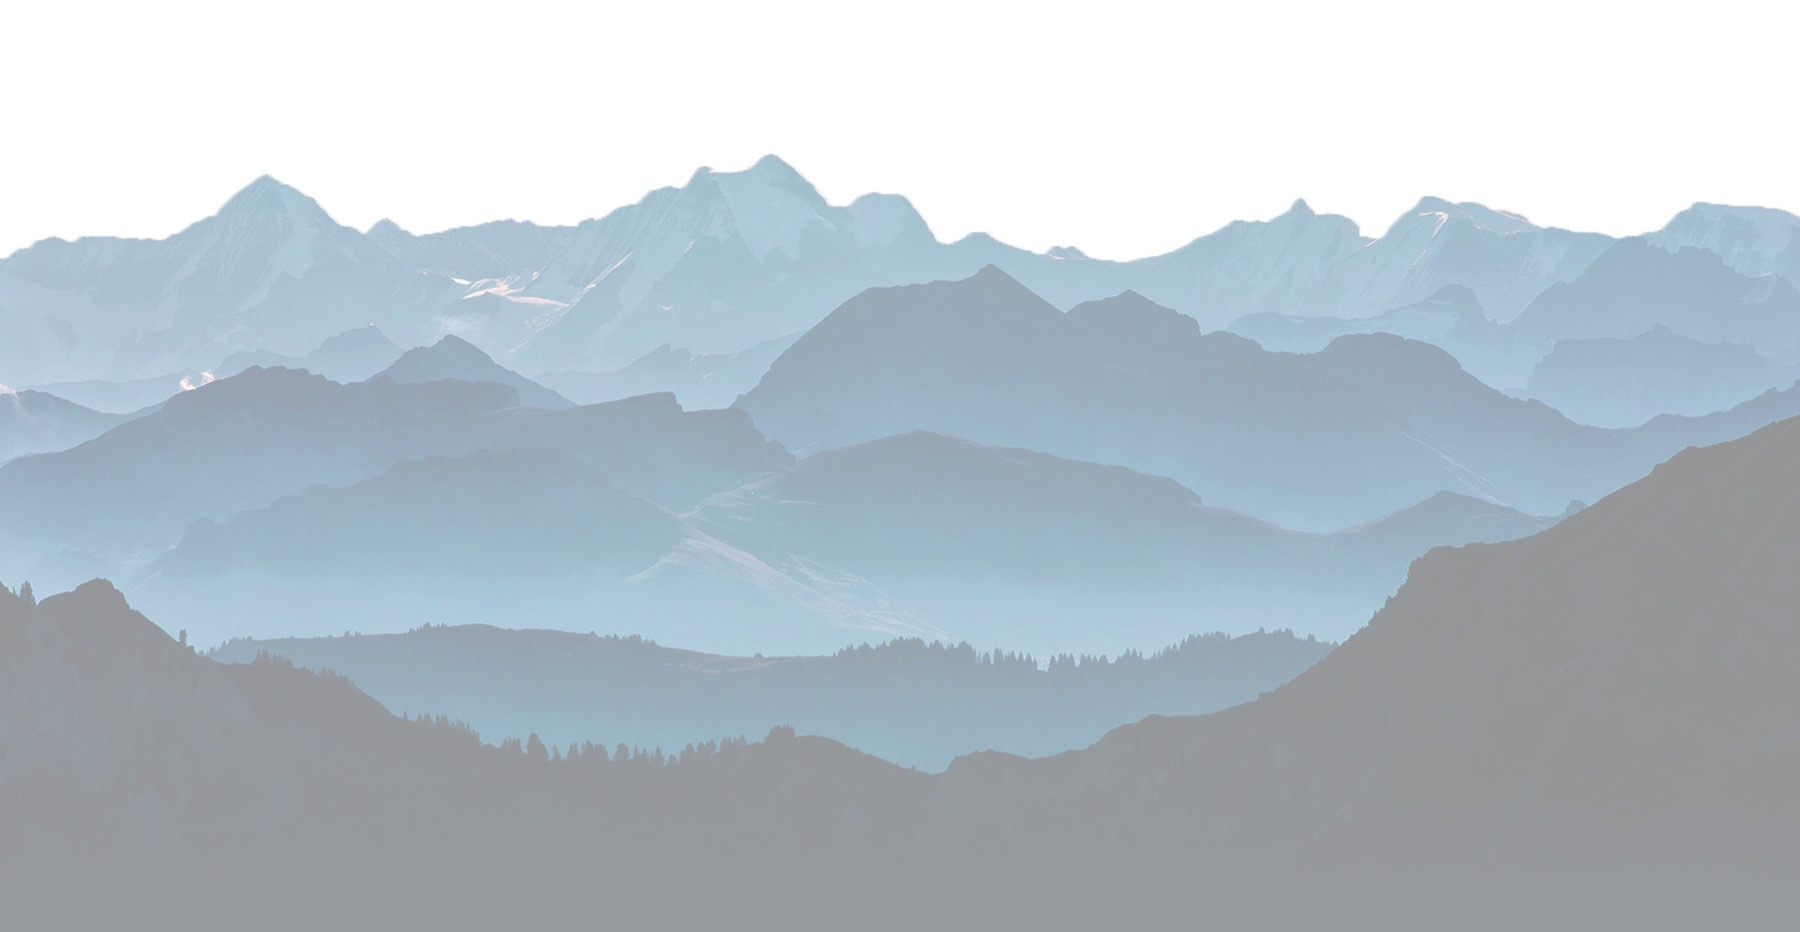
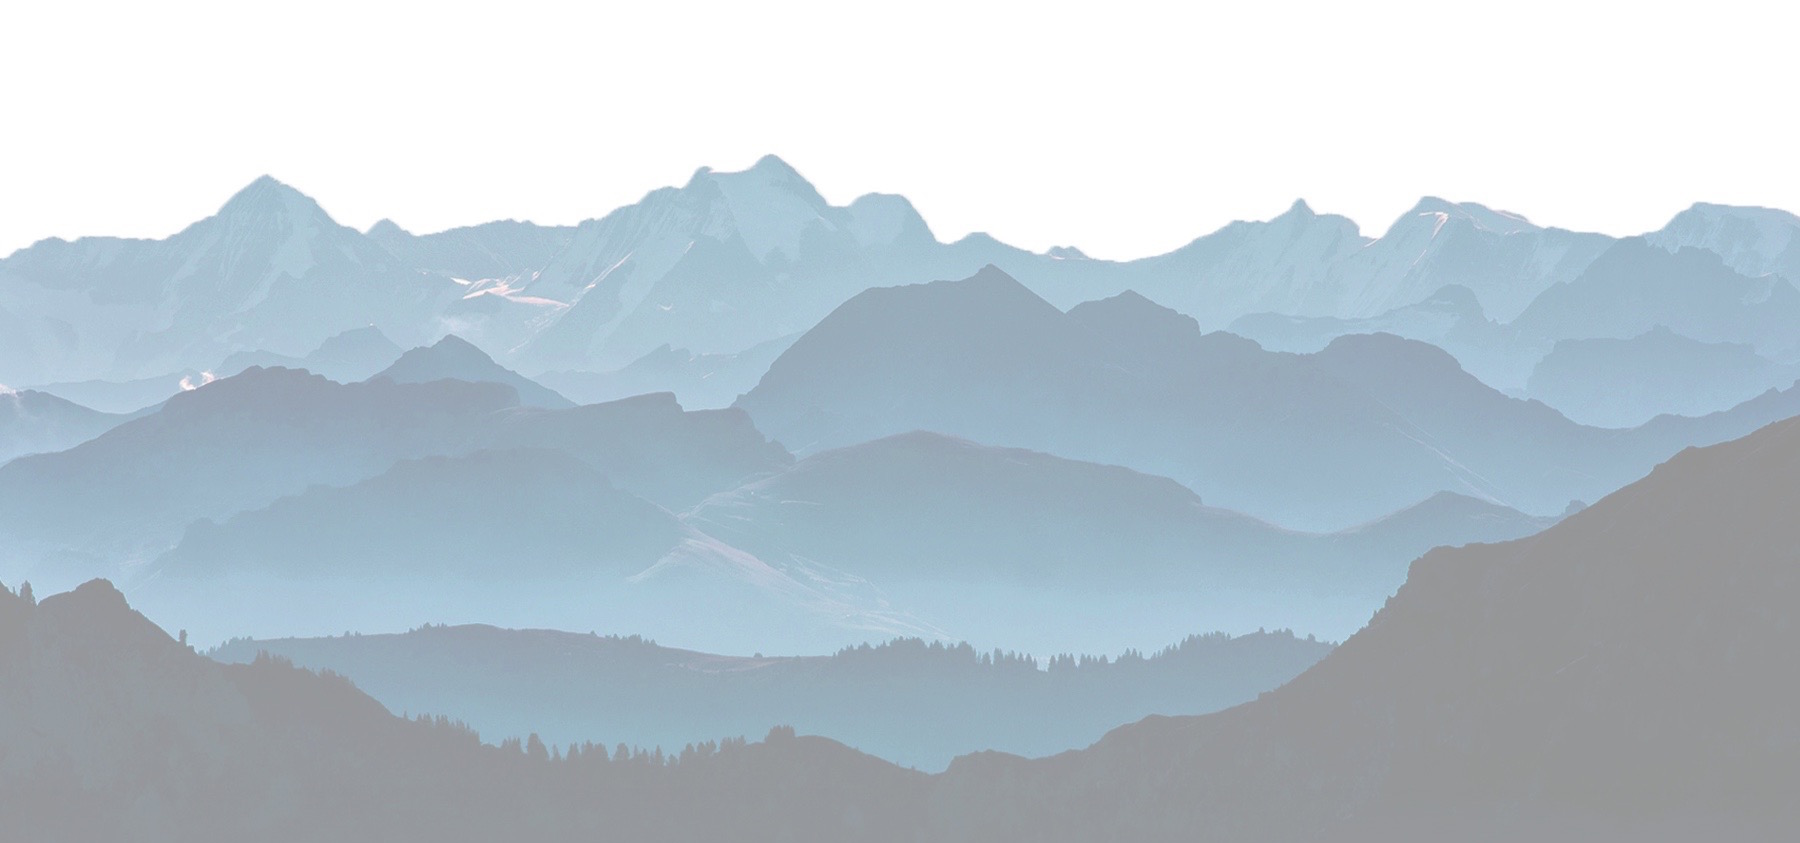
separated js in beta and created wood fade section with objects

Changed region(s): [[0.0, 0.4318, 1.0, 0.9253], [0.0, 0.1542, 1.0, 0.4935], [0.4044, 0.586, 0.4356, 0.6168]]

diff --git a/beta.html b/beta.html
@@ -51,10 +51,19 @@
     </div>
   </div>
   <div class="section" id="schedule">
-      <div class="wrapper">
-          <h2>The Weekend Plan</h2>
-          <p>Schedule Coming Soon</p>
-      </div>
+    <img src="img/notebook.png" id="desk_notebook" class="desk_objects">
+    <img src="img/peach.png" id="desk_peach" class="desk_objects">
+    <div class="wrapper">
+        <h2>The Weekend Plan</h2>
+        <p>Schedule Coming Soon</p>
+        <p>Lorem ipsum dolor sit amet, consectetur adipiscing elit,</p>
+        <p>sed do eiusmod tempor incididunt ut labore et dolore magna aliqua.</p>
+        <p>Ut enim ad minim veniam,</p>
+        <p>quis nostrud exercitation ullamco laboris nisi ut aliquip ex ea commodo consequat.</p>
+        <p>Duis aute irure dolor in reprehenderit in voluptate velit esse cillum dolore eu fugiat nulla pariatur.</p>
+        <p>Excepteur sint occaecat cupidatat non proident,</p>
+        <p>sunt in culpa qui officia deserunt mollit anim id est laborum.</p>
+    </div>
   </div>
   <div class="section" id="divider"></div>
   <div class="section" id="sponsor">
@@ -98,61 +107,7 @@
   <script src="js/jquery-sakura.min.js"></script>
   <script src="js/itemslide.min.js"></script>
   <script src="js/jquery.parallax.min.js"></script>
-  <script>
-    $(window).load(function () {
-      var isMobile = window.matchMedia("only screen and (max-width: 760px)");
-      if (! isMobile.matches) {
-        $('.res').sakura();
-      }
-    });
-    var carousel;
-    $(document).ready(function () {
-      // $('#mountainBack').parallax();
-      carousel = $("ul#faq-blocks");
-      carousel.itemslide();
-      carousel.gotoSlide(2);
-    });
-
-    /*********************************************************************
-    *  #### Twitter Post Fetcher v16.0.2 ####
-    *  Coded by Jason Mayes 2015. A present to all the developers out there.
-    *  www.jasonmayes.com
-    *  Please keep this disclaimer with my code if you use it. Thanks. :-)
-    *  Got feedback or questions, ask here:
-    *  http://www.jasonmayes.com/projects/twitterApi/
-    *  Github: https://github.com/jasonmayes/Twitter-Post-Fetcher
-    *  Updates will be posted to this site.
-    *********************************************************************/
-    (function(E,q){"function"===typeof define&&define.amd?define([],q):"object"===typeof exports?module.exports=q():q()})(this,function(){function E(a){if(null===t){for(var f=a.length,b=0,k=document.getElementById(F),g="<ul>";b<f;)g+="<li>"+a[b]+"</li>",b++;k.innerHTML=g+"</ul>"}else t(a)}function q(a){return a.replace(/<b[^>]*>(.*?)<\/b>/gi,function(a,b){return b}).replace(/class="(?!(tco-hidden|tco-display|tco-ellipsis))+.*?"|data-query-source=".*?"|dir=".*?"|rel=".*?"/gi,"")}function G(a){a=a.getElementsByTagName("a");
-    for(var f=a.length-1;0<=f;f--)a[f].setAttribute("target","_blank")}function l(a,f){for(var b=[],k=new RegExp("(^| )"+f+"( |$)"),g=a.getElementsByTagName("*"),h=0,d=g.length;h<d;h++)k.test(g[h].className)&&b.push(g[h]);return b}function y(a){if(void 0!==a&&0<=a.innerHTML.indexOf("data-srcset"))return a=a.innerHTML.match(/data-srcset="([A-z0-9%_\.-]+)/i)[0],decodeURIComponent(a).split('"')[1]}var F="",f=20,H=!0,x=[],z=!1,A=!0,n=!0,B=null,C=!0,D=!0,t=null,I=!0,u=!1,v=!0,J=!0,K=!1,m=null,L={fetch:function(a){void 0===
-    a.maxTweets&&(a.maxTweets=20);void 0===a.enableLinks&&(a.enableLinks=!0);void 0===a.showUser&&(a.showUser=!0);void 0===a.showTime&&(a.showTime=!0);void 0===a.dateFunction&&(a.dateFunction="default");void 0===a.showRetweet&&(a.showRetweet=!0);void 0===a.customCallback&&(a.customCallback=null);void 0===a.showInteraction&&(a.showInteraction=!0);void 0===a.showImages&&(a.showImages=!1);void 0===a.linksInNewWindow&&(a.linksInNewWindow=!0);void 0===a.showPermalinks&&(a.showPermalinks=!0);void 0===a.dataOnly&&
-    (a.dataOnly=!1);if(z)x.push(a);else{z=!0;F=a.domId;f=a.maxTweets;H=a.enableLinks;n=a.showUser;A=a.showTime;D=a.showRetweet;B=a.dateFunction;t=a.customCallback;I=a.showInteraction;u=a.showImages;v=a.linksInNewWindow;J=a.showPermalinks;K=a.dataOnly;var l=document.getElementsByTagName("head")[0];null!==m&&l.removeChild(m);m=document.createElement("script");m.type="text/javascript";m.src=void 0!==a.list?"https://syndication.twitter.com/timeline/list?callback=twitterFetcher.callback&dnt=false&list_slug="+
-    a.list.listSlug+"&screen_name="+a.list.screenName+"&suppress_response_codes=true&lang="+(a.lang||"en")+"&rnd="+Math.random():void 0!==a.profile?"https://syndication.twitter.com/timeline/profile?callback=twitterFetcher.callback&dnt=false&screen_name="+a.profile.screenName+"&suppress_response_codes=true&lang="+(a.lang||"en")+"&rnd="+Math.random():void 0!==a.likes?"https://syndication.twitter.com/timeline/likes?callback=twitterFetcher.callback&dnt=false&screen_name="+a.likes.screenName+"&suppress_response_codes=true&lang="+
-    (a.lang||"en")+"&rnd="+Math.random():"https://cdn.syndication.twimg.com/widgets/timelines/"+a.id+"?&lang="+(a.lang||"en")+"&callback=twitterFetcher.callback&suppress_response_codes=true&rnd="+Math.random();l.appendChild(m)}},callback:function(a){function m(a){var b=a.getElementsByTagName("img")[0];b.src=b.getAttribute("data-src-2x");return a}a.body=a.body.replace(/(<img[^c]*class="Emoji[^>]*>)|(<img[^c]*class="u-block[^>]*>)/g,"");u||(a.body=a.body.replace(/(<img[^c]*class="NaturalImage-image[^>]*>|(<img[^c]*class="CroppedImage-image[^>]*>))/g,
-    ""));n||(a.body=a.body.replace(/(<img[^c]*class="Avatar"[^>]*>)/g,""));var b=document.createElement("div");b.innerHTML=a.body;"undefined"===typeof b.getElementsByClassName&&(C=!1);a=[];var k=[],g=[],h=[],d=[],r=[],p=[],e=0;if(C)for(b=b.getElementsByClassName("timeline-Tweet");e<b.length;){0<b[e].getElementsByClassName("timeline-Tweet-retweetCredit").length?d.push(!0):d.push(!1);if(!d[e]||d[e]&&D)a.push(b[e].getElementsByClassName("timeline-Tweet-text")[0]),r.push(b[e].getAttribute("data-tweet-id")),
-    n&&k.push(m(b[e].getElementsByClassName("timeline-Tweet-author")[0])),g.push(b[e].getElementsByClassName("dt-updated")[0]),p.push(b[e].getElementsByClassName("timeline-Tweet-timestamp")[0]),void 0!==b[e].getElementsByClassName("timeline-Tweet-media")[0]?h.push(b[e].getElementsByClassName("timeline-Tweet-media")[0]):h.push(void 0);e++}else for(b=l(b,"timeline-Tweet");e<b.length;){0<l(b[e],"timeline-Tweet-retweetCredit").length?d.push(!0):d.push(!1);if(!d[e]||d[e]&&D)a.push(l(b[e],"timeline-Tweet-text")[0]),
-    r.push(b[e].getAttribute("data-tweet-id")),n&&k.push(m(l(b[e],"timeline-Tweet-author")[0])),g.push(l(b[e],"dt-updated")[0]),p.push(l(b[e],"timeline-Tweet-timestamp")[0]),void 0!==l(b[e],"timeline-Tweet-media")[0]?h.push(l(b[e],"timeline-Tweet-media")[0]):h.push(void 0);e++}a.length>f&&(a.splice(f,a.length-f),k.splice(f,k.length-f),g.splice(f,g.length-f),d.splice(f,d.length-f),h.splice(f,h.length-f),p.splice(f,p.length-f));var b=[],e=a.length,c=0;if(K)for(;c<e;)b.push({tweet:a[c].innerHTML,author:k[c].innerHTML,
-    time:g[c].textContent,image:y(h[c]),rt:d[c],tid:r[c],permalinkURL:void 0===p[c]?"":p[c].href}),c++;else for(;c<e;){if("string"!==typeof B){var d=g[c].getAttribute("datetime"),w=new Date(g[c].getAttribute("datetime").replace(/-/g,"/").replace("T"," ").split("+")[0]),d=B(w,d);g[c].setAttribute("aria-label",d);if(a[c].textContent)if(C)g[c].textContent=d;else{var w=document.createElement("p"),t=document.createTextNode(d);w.appendChild(t);w.setAttribute("aria-label",d);g[c]=w}else g[c].textContent=d}d=
-    "";H?(v&&(G(a[c]),n&&G(k[c])),n&&(d+='<div class="user">'+q(k[c].innerHTML)+"</div>"),d+='<p class="tweet">'+q(a[c].innerHTML)+"</p>",A&&(d=J?d+('<p class="timePosted"><a href="'+p[c]+'">'+g[c].getAttribute("aria-label")+"</a></p>"):d+('<p class="timePosted">'+g[c].getAttribute("aria-label")+"</p>"))):(n&&(d+='<p class="user">'+k[c].textContent+"</p>"),d+='<p class="tweet">'+a[c].textContent+"</p>",A&&(d+='<p class="timePosted">'+g[c].textContent+"</p>"));I&&(d+='<p class="interact"><a href="https://twitter.com/intent/tweet?in_reply_to='+
-    r[c]+'" class="twitter_reply_icon"'+(v?' target="_blank">':">")+'Reply</a><a href="https://twitter.com/intent/retweet?tweet_id='+r[c]+'" class="twitter_retweet_icon"'+(v?' target="_blank">':">")+'Retweet</a><a href="https://twitter.com/intent/favorite?tweet_id='+r[c]+'" class="twitter_fav_icon"'+(v?' target="_blank">':">")+"Favorite</a></p>");u&&void 0!==h[c]&&void 0!==y(h[c])&&(d+='<div class="media"><img src="'+y(h[c])+'" alt="Image from tweet" /></div>');u?b.push(d):!u&&a[c].textContent.length&&
-    b.push(d);c++}E(b);z=!1;0<x.length&&(L.fetch(x[0]),x.splice(0,1))}};return window.twitterFetcher=L});
-
-    var configProfile = {
-      "profile": {"screenName": 'theHackGT'},
-      "domId": 'latestTweet',
-      "maxTweets": 1,
-      "enableLinks": true, 
-      "showUser": false,
-      "showTime": true,
-      "showImages": false,
-      "lang": 'en',
-      "showInteraction": false
-    };
-    twitterFetcher.fetch(configProfile);
-
-
-  </script>
-  <!-- <script type="text/javascript" src="javascripts/script.js"></script> -->
+  <script src="js/script.js"></script>
   <script>
     (function(i,s,o,g,r,a,m){i['GoogleAnalyticsObject']=r;i[r]=i[r]||function(){
     (i[r].q=i[r].q||[]).push(arguments)},i[r].l=1*new Date();a=s.createElement(o),

diff --git a/js/script.js b/js/script.js
@@ -1,19 +1,67 @@
-$(document).ready(function(e) {
-    
-    // Navbar Scroll
-    $('#test').scrollToFixed();
-    $('.res-nav_click').click(function(){
-        $('.main-nav').slideToggle();
-        return false    
-        
+    // Disable falling petal animation on mobile
+    $(window).load(function () {
+      var isMobile = window.matchMedia("only screen and (max-width: 760px)");
+      if (! isMobile.matches) {
+        $('.res').sakura();        
+      }
     });
 
-    wow = new WOW(
-      {
-        animateClass: 'animated',
-        offset:       100
-      }
-    );
-    wow.init();
-        
-});
+    // Initialize itemslide on FAQ
+    var carousel;
+    $(document).ready(function () {
+      carousel = $("ul#faq-blocks");
+      carousel.itemslide();
+      carousel.gotoSlide(2);
+      var wood = false;
+      $(window).scroll(function() {
+        if (!wood && $(document).scrollTop() > (window.innerHeight * .9 - 50)) {
+            $('#faq').addClass('changeToWood');
+            $('#schedule').addClass('changeToWood');
+            wood = true;
+        } else if (wood && $(document).scrollTop() < (window.innerHeight * .9 - 50)) {
+            $('#faq').removeClass('changeToWood');
+            $('#schedule').removeClass('changeToWood');
+            wood = false;
+        }
+      });
+    });
+
+    /*********************************************************************
+    *  #### Twitter Post Fetcher v16.0.2 ####
+    *  Coded by Jason Mayes 2015. A present to all the developers out there.
+    *  www.jasonmayes.com
+    *  Please keep this disclaimer with my code if you use it. Thanks. :-)
+    *  Got feedback or questions, ask here:
+    *  http://www.jasonmayes.com/projects/twitterApi/
+    *  Github: https://github.com/jasonmayes/Twitter-Post-Fetcher
+    *  Updates will be posted to this site.
+    *********************************************************************/
+
+    (function(E,q){"function"===typeof define&&define.amd?define([],q):"object"===typeof exports?module.exports=q():q()})(this,function(){function E(a){if(null===t){for(var f=a.length,b=0,k=document.getElementById(F),g="<ul>";b<f;)g+="<li>"+a[b]+"</li>",b++;k.innerHTML=g+"</ul>"}else t(a)}function q(a){return a.replace(/<b[^>]*>(.*?)<\/b>/gi,function(a,b){return b}).replace(/class="(?!(tco-hidden|tco-display|tco-ellipsis))+.*?"|data-query-source=".*?"|dir=".*?"|rel=".*?"/gi,"")}function G(a){a=a.getElementsByTagName("a");
+    for(var f=a.length-1;0<=f;f--)a[f].setAttribute("target","_blank")}function l(a,f){for(var b=[],k=new RegExp("(^| )"+f+"( |$)"),g=a.getElementsByTagName("*"),h=0,d=g.length;h<d;h++)k.test(g[h].className)&&b.push(g[h]);return b}function y(a){if(void 0!==a&&0<=a.innerHTML.indexOf("data-srcset"))return a=a.innerHTML.match(/data-srcset="([A-z0-9%_\.-]+)/i)[0],decodeURIComponent(a).split('"')[1]}var F="",f=20,H=!0,x=[],z=!1,A=!0,n=!0,B=null,C=!0,D=!0,t=null,I=!0,u=!1,v=!0,J=!0,K=!1,m=null,L={fetch:function(a){void 0===
+    a.maxTweets&&(a.maxTweets=20);void 0===a.enableLinks&&(a.enableLinks=!0);void 0===a.showUser&&(a.showUser=!0);void 0===a.showTime&&(a.showTime=!0);void 0===a.dateFunction&&(a.dateFunction="default");void 0===a.showRetweet&&(a.showRetweet=!0);void 0===a.customCallback&&(a.customCallback=null);void 0===a.showInteraction&&(a.showInteraction=!0);void 0===a.showImages&&(a.showImages=!1);void 0===a.linksInNewWindow&&(a.linksInNewWindow=!0);void 0===a.showPermalinks&&(a.showPermalinks=!0);void 0===a.dataOnly&&
+    (a.dataOnly=!1);if(z)x.push(a);else{z=!0;F=a.domId;f=a.maxTweets;H=a.enableLinks;n=a.showUser;A=a.showTime;D=a.showRetweet;B=a.dateFunction;t=a.customCallback;I=a.showInteraction;u=a.showImages;v=a.linksInNewWindow;J=a.showPermalinks;K=a.dataOnly;var l=document.getElementsByTagName("head")[0];null!==m&&l.removeChild(m);m=document.createElement("script");m.type="text/javascript";m.src=void 0!==a.list?"https://syndication.twitter.com/timeline/list?callback=twitterFetcher.callback&dnt=false&list_slug="+
+    a.list.listSlug+"&screen_name="+a.list.screenName+"&suppress_response_codes=true&lang="+(a.lang||"en")+"&rnd="+Math.random():void 0!==a.profile?"https://syndication.twitter.com/timeline/profile?callback=twitterFetcher.callback&dnt=false&screen_name="+a.profile.screenName+"&suppress_response_codes=true&lang="+(a.lang||"en")+"&rnd="+Math.random():void 0!==a.likes?"https://syndication.twitter.com/timeline/likes?callback=twitterFetcher.callback&dnt=false&screen_name="+a.likes.screenName+"&suppress_response_codes=true&lang="+
+    (a.lang||"en")+"&rnd="+Math.random():"https://cdn.syndication.twimg.com/widgets/timelines/"+a.id+"?&lang="+(a.lang||"en")+"&callback=twitterFetcher.callback&suppress_response_codes=true&rnd="+Math.random();l.appendChild(m)}},callback:function(a){function m(a){var b=a.getElementsByTagName("img")[0];b.src=b.getAttribute("data-src-2x");return a}a.body=a.body.replace(/(<img[^c]*class="Emoji[^>]*>)|(<img[^c]*class="u-block[^>]*>)/g,"");u||(a.body=a.body.replace(/(<img[^c]*class="NaturalImage-image[^>]*>|(<img[^c]*class="CroppedImage-image[^>]*>))/g,
+    ""));n||(a.body=a.body.replace(/(<img[^c]*class="Avatar"[^>]*>)/g,""));var b=document.createElement("div");b.innerHTML=a.body;"undefined"===typeof b.getElementsByClassName&&(C=!1);a=[];var k=[],g=[],h=[],d=[],r=[],p=[],e=0;if(C)for(b=b.getElementsByClassName("timeline-Tweet");e<b.length;){0<b[e].getElementsByClassName("timeline-Tweet-retweetCredit").length?d.push(!0):d.push(!1);if(!d[e]||d[e]&&D)a.push(b[e].getElementsByClassName("timeline-Tweet-text")[0]),r.push(b[e].getAttribute("data-tweet-id")),
+    n&&k.push(m(b[e].getElementsByClassName("timeline-Tweet-author")[0])),g.push(b[e].getElementsByClassName("dt-updated")[0]),p.push(b[e].getElementsByClassName("timeline-Tweet-timestamp")[0]),void 0!==b[e].getElementsByClassName("timeline-Tweet-media")[0]?h.push(b[e].getElementsByClassName("timeline-Tweet-media")[0]):h.push(void 0);e++}else for(b=l(b,"timeline-Tweet");e<b.length;){0<l(b[e],"timeline-Tweet-retweetCredit").length?d.push(!0):d.push(!1);if(!d[e]||d[e]&&D)a.push(l(b[e],"timeline-Tweet-text")[0]),
+    r.push(b[e].getAttribute("data-tweet-id")),n&&k.push(m(l(b[e],"timeline-Tweet-author")[0])),g.push(l(b[e],"dt-updated")[0]),p.push(l(b[e],"timeline-Tweet-timestamp")[0]),void 0!==l(b[e],"timeline-Tweet-media")[0]?h.push(l(b[e],"timeline-Tweet-media")[0]):h.push(void 0);e++}a.length>f&&(a.splice(f,a.length-f),k.splice(f,k.length-f),g.splice(f,g.length-f),d.splice(f,d.length-f),h.splice(f,h.length-f),p.splice(f,p.length-f));var b=[],e=a.length,c=0;if(K)for(;c<e;)b.push({tweet:a[c].innerHTML,author:k[c].innerHTML,
+    time:g[c].textContent,image:y(h[c]),rt:d[c],tid:r[c],permalinkURL:void 0===p[c]?"":p[c].href}),c++;else for(;c<e;){if("string"!==typeof B){var d=g[c].getAttribute("datetime"),w=new Date(g[c].getAttribute("datetime").replace(/-/g,"/").replace("T"," ").split("+")[0]),d=B(w,d);g[c].setAttribute("aria-label",d);if(a[c].textContent)if(C)g[c].textContent=d;else{var w=document.createElement("p"),t=document.createTextNode(d);w.appendChild(t);w.setAttribute("aria-label",d);g[c]=w}else g[c].textContent=d}d=
+    "";H?(v&&(G(a[c]),n&&G(k[c])),n&&(d+='<div class="user">'+q(k[c].innerHTML)+"</div>"),d+='<p class="tweet">'+q(a[c].innerHTML)+"</p>",A&&(d=J?d+('<p class="timePosted"><a href="'+p[c]+'">'+g[c].getAttribute("aria-label")+"</a></p>"):d+('<p class="timePosted">'+g[c].getAttribute("aria-label")+"</p>"))):(n&&(d+='<p class="user">'+k[c].textContent+"</p>"),d+='<p class="tweet">'+a[c].textContent+"</p>",A&&(d+='<p class="timePosted">'+g[c].textContent+"</p>"));I&&(d+='<p class="interact"><a href="https://twitter.com/intent/tweet?in_reply_to='+
+    r[c]+'" class="twitter_reply_icon"'+(v?' target="_blank">':">")+'Reply</a><a href="https://twitter.com/intent/retweet?tweet_id='+r[c]+'" class="twitter_retweet_icon"'+(v?' target="_blank">':">")+'Retweet</a><a href="https://twitter.com/intent/favorite?tweet_id='+r[c]+'" class="twitter_fav_icon"'+(v?' target="_blank">':">")+"Favorite</a></p>");u&&void 0!==h[c]&&void 0!==y(h[c])&&(d+='<div class="media"><img src="'+y(h[c])+'" alt="Image from tweet" /></div>');u?b.push(d):!u&&a[c].textContent.length&&
+    b.push(d);c++}E(b);z=!1;0<x.length&&(L.fetch(x[0]),x.splice(0,1))}};return window.twitterFetcher=L});
+
+    var configProfile = {
+      "profile": {"screenName": 'theHackGT'},
+      "domId": 'latestTweet',
+      "maxTweets": 1,
+      "enableLinks": true, 
+      "showUser": false,
+      "showTime": true,
+      "showImages": false,
+      "lang": 'en',
+      "showInteraction": false
+    };
+
+    twitterFetcher.fetch(configProfile);
+

diff --git a/css/style.css b/css/style.css
@@ -9,15 +9,18 @@ body {
     font-family: 'Advent Pro', sans-serif;
     margin: 0;
     background: #ffffff;
+    overflow-x: hidden;
 }
 
 .res {
     width: 100%;
-    height: 90%;
+    height: 75%;
     background: #969a9d;
     background-image: url(../img/mountains.jpg);
     background-size: cover;
-    background-position-x: center;
+    background-position: bottom center;
+    position: relative;
+    z-index: 2;
 }
 
 #mountainBack {
@@ -140,6 +143,7 @@ img#tree {
 .section {
     width: 100%;
     padding: 10px;
+    position: relative;
 }
 
 .wrapper {
@@ -154,10 +158,69 @@ img#tree {
 }
 
 div#faq {
-    margin-top: -100px;
     height: 450px;
-    background: #969a9d;
+}
+
+div#schedule {
+    padding-bottom: 35px;
+    text-align: center;
+}
+
+div#faq, div#schedule {
+    background: rgba(150, 154, 157, 1);
     color: #fff;
+    position: relative;
+    transition: .5s all;
+    overflow: hidden;
+}
+
+div#faq.changeToWood, div#schedule.changeToWood {
+    background: rgba(150, 154, 157, 0);
+    color: #000;
+}
+
+div#faq::after, div#schedule::after {
+    content: '';
+    background-image: url(../img/wood.png);
+    position: absolute;
+    width: 100%;
+    height: 100%;
+    left: 0;
+    top: 0;
+    z-index: -1;
+    background-position: bottom center;
+}
+
+div#schedule::after {
+    background-position: top center;
+}
+
+.desk_objects {
+    position: absolute;
+    transition: all .75s;
+}
+
+#desk_notebook {
+    height: 700px;
+    transform: rotate(5deg);
+    top: -15px;
+    right: -400px;
+    transition-delay: 1s;
+}
+
+.changeToWood #desk_notebook {
+    right: -75px;
+}
+
+#desk_peach {
+    height: 200px;
+    left: -200px;
+    transform: rotate(-10deg);
+    transition-delay: .5s;
+}
+
+.changeToWood #desk_peach {
+    left: 50px;    
 }
 
 .scroll { /* Carousel Frame */
@@ -218,13 +281,6 @@ div#faq {
     margin: 0 5px;
 }
 
-div#schedule {
-    padding-bottom: 35px;
-    background: #969a9d;
-    color: #fff;
-    text-align: center;
-}
-
 div#divider {
     padding: 0;
     min-height: 50px;
@@ -246,7 +302,7 @@ div#divider::before {
 div#sponsor {
     text-align: center;
     background: #fff;
-    margin-top: -30px;
+    margin-top: -40px;
     padding-top: 0;
 }
 
@@ -345,7 +401,8 @@ div#footer .social a.email {
 @media screen and (max-height: 760px) {
     div#faq {
         margin-top: 0px;
-        padding-top: 30px;
+        padding-top: 100px;
+        height: 550px;
     }
 }
 
